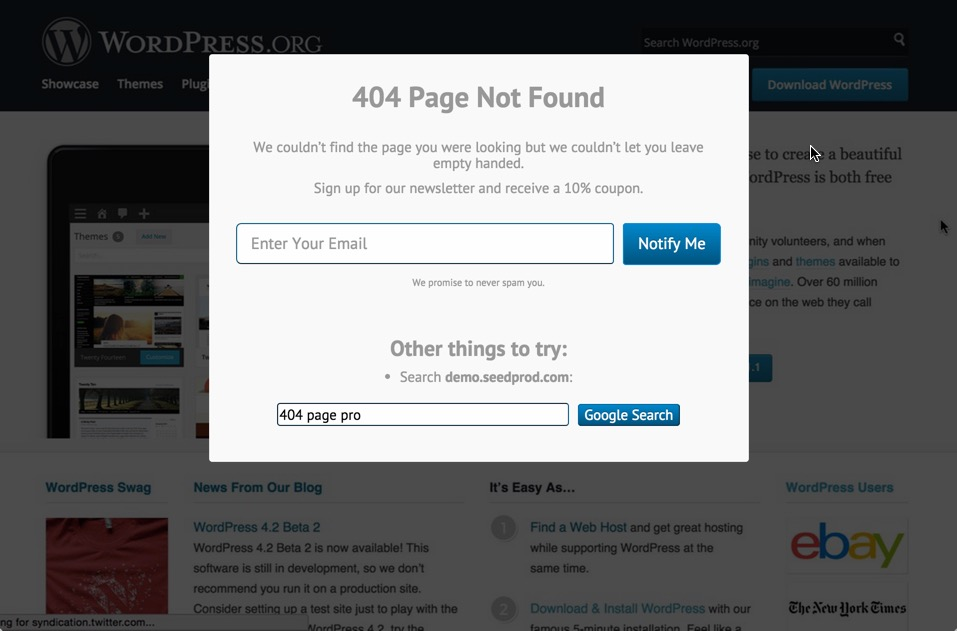
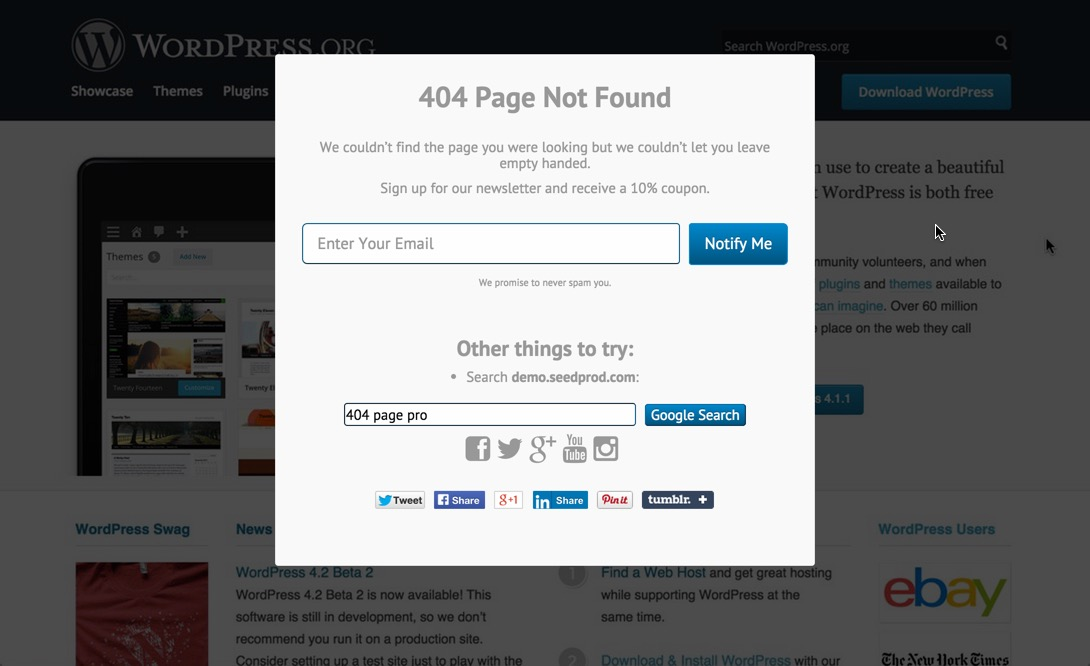
u

Changed region(s): [[0.0, 0.0301, 1.0, 1.0], [0.5455, 0.7528, 0.9394, 1.0], [0.3636, 0.1204, 0.6364, 0.1807]]

diff --git a/style.less b/style.less
@@ -237,6 +237,119 @@ h1,h2,h3,h4,h5,h6{
     padding-top:10px;
 }
 
+.product-404-page-pro{
+    #seed-feature-1:before{
+        content: '';
+        position: absolute;
+        top: 0;
+        height: 1px;
+        border-top: 1px #ddd solid;
+        width: 300px;
+    }
+
+    #seed-feature-1{
+        position: absolute;
+        top: 68px;
+        left: 20px;
+        width: 180px;
+        text-align: left;
+        padding-top:10px;
+    }
+
+    #seed-feature-2:before{
+        content: '';
+        position: absolute;
+        top: 0;
+        right: 0;
+        height: 1px;
+        border-top: 1px #ddd solid;
+        width: 325px;
+    }
+
+    #seed-feature-2{
+        position: absolute;
+        top: 272px;
+        right: 20px;
+        width: 180px;
+        text-align: right;
+        padding-top:10px;
+    }
+
+    #seed-feature-3:before{
+        content: '';
+        position: absolute;
+        top: 0;
+        height: 1px;
+        border-top: 1px #ddd solid;
+        width: 370px;
+    }
+
+    #seed-feature-3{
+        position: absolute;
+        top: 204px;
+        left: 20px;
+        width: 180px;
+        text-align: left;
+        padding-top:10px;
+    }
+
+    #seed-feature-4:before{
+        content: '';
+        position: absolute;
+        top: 0;
+        height: 1px;
+        border-top: 1px #ddd solid;
+        width: 350px;
+    }
+
+    #seed-feature-4{
+        position: absolute;
+        top: 298px;
+        left: 20px;
+        width: 180px;
+        text-align: left;
+        padding-top:10px;
+    }
+
+    #seed-feature-5:before{
+        content: '';
+        position: absolute;
+        top: 0;
+        right: 0;
+        height: 1px;
+        border-top: 1px #ddd solid;
+        width: 320px;
+    }
+
+    #seed-feature-5{
+        position: absolute;
+        top: 90px;
+        right: 20px;
+        width: 180px;
+        text-align: right;
+        padding-top:10px;
+    }
+
+    #seed-feature-6:before{
+        content: '';
+        position: absolute;
+        top: 0;
+        right: 0;
+        height: 1px;
+        border-top: 1px #ddd solid;
+        width: 320px;
+    }
+
+    #seed-feature-6{
+        position: absolute;
+        top: 175px;
+        right: 20px;
+        width: 180px;
+        text-align: right;
+        padding-top:10px;
+    }
+}
+
 #seed-trust{
     position: relative;
     top: -151px;

diff --git a/css/style.css b/css/style.css
@@ -47,6 +47,10 @@ h6 {
   font-weight: bold;
   font-family: "freight-sans-pro-1", "freight-sans-pro-2", "Helvetica Neue", Helvetica, Arial, sans-serif;
 }
+.product-404-page-pro p a,
+.product-404-page-pro p a:hover {
+  color: #08c;
+}
 .uk-text-small {
   font-size: 14px;
   line-height: 16px;
@@ -190,6 +194,105 @@ h6 {
   width: 320px;
 }
 #seed-feature-6 {
+  position: absolute;
+  top: 175px;
+  right: 20px;
+  width: 180px;
+  text-align: right;
+  padding-top: 10px;
+}
+.product-404-page-pro #seed-feature-1:before {
+  content: '';
+  position: absolute;
+  top: 0;
+  height: 1px;
+  border-top: 1px #ddd solid;
+  width: 300px;
+}
+.product-404-page-pro #seed-feature-1 {
+  position: absolute;
+  top: 68px;
+  left: 20px;
+  width: 180px;
+  text-align: left;
+  padding-top: 10px;
+}
+.product-404-page-pro #seed-feature-2:before {
+  content: '';
+  position: absolute;
+  top: 0;
+  right: 0;
+  height: 1px;
+  border-top: 1px #ddd solid;
+  width: 325px;
+}
+.product-404-page-pro #seed-feature-2 {
+  position: absolute;
+  top: 272px;
+  right: 20px;
+  width: 180px;
+  text-align: right;
+  padding-top: 10px;
+}
+.product-404-page-pro #seed-feature-3:before {
+  content: '';
+  position: absolute;
+  top: 0;
+  height: 1px;
+  border-top: 1px #ddd solid;
+  width: 370px;
+}
+.product-404-page-pro #seed-feature-3 {
+  position: absolute;
+  top: 204px;
+  left: 20px;
+  width: 180px;
+  text-align: left;
+  padding-top: 10px;
+}
+.product-404-page-pro #seed-feature-4:before {
+  content: '';
+  position: absolute;
+  top: 0;
+  height: 1px;
+  border-top: 1px #ddd solid;
+  width: 350px;
+}
+.product-404-page-pro #seed-feature-4 {
+  position: absolute;
+  top: 298px;
+  left: 20px;
+  width: 180px;
+  text-align: left;
+  padding-top: 10px;
+}
+.product-404-page-pro #seed-feature-5:before {
+  content: '';
+  position: absolute;
+  top: 0;
+  right: 0;
+  height: 1px;
+  border-top: 1px #ddd solid;
+  width: 320px;
+}
+.product-404-page-pro #seed-feature-5 {
+  position: absolute;
+  top: 90px;
+  right: 20px;
+  width: 180px;
+  text-align: right;
+  padding-top: 10px;
+}
+.product-404-page-pro #seed-feature-6:before {
+  content: '';
+  position: absolute;
+  top: 0;
+  right: 0;
+  height: 1px;
+  border-top: 1px #ddd solid;
+  width: 320px;
+}
+.product-404-page-pro #seed-feature-6 {
   position: absolute;
   top: 175px;
   right: 20px;

diff --git a/style.css b/style.css
@@ -201,6 +201,105 @@ h6 {
   text-align: right;
   padding-top: 10px;
 }
+.product-404-page-pro #seed-feature-1:before {
+  content: '';
+  position: absolute;
+  top: 0;
+  height: 1px;
+  border-top: 1px #ddd solid;
+  width: 300px;
+}
+.product-404-page-pro #seed-feature-1 {
+  position: absolute;
+  top: 68px;
+  left: 20px;
+  width: 180px;
+  text-align: left;
+  padding-top: 10px;
+}
+.product-404-page-pro #seed-feature-2:before {
+  content: '';
+  position: absolute;
+  top: 0;
+  right: 0;
+  height: 1px;
+  border-top: 1px #ddd solid;
+  width: 325px;
+}
+.product-404-page-pro #seed-feature-2 {
+  position: absolute;
+  top: 272px;
+  right: 20px;
+  width: 180px;
+  text-align: right;
+  padding-top: 10px;
+}
+.product-404-page-pro #seed-feature-3:before {
+  content: '';
+  position: absolute;
+  top: 0;
+  height: 1px;
+  border-top: 1px #ddd solid;
+  width: 370px;
+}
+.product-404-page-pro #seed-feature-3 {
+  position: absolute;
+  top: 204px;
+  left: 20px;
+  width: 180px;
+  text-align: left;
+  padding-top: 10px;
+}
+.product-404-page-pro #seed-feature-4:before {
+  content: '';
+  position: absolute;
+  top: 0;
+  height: 1px;
+  border-top: 1px #ddd solid;
+  width: 350px;
+}
+.product-404-page-pro #seed-feature-4 {
+  position: absolute;
+  top: 298px;
+  left: 20px;
+  width: 180px;
+  text-align: left;
+  padding-top: 10px;
+}
+.product-404-page-pro #seed-feature-5:before {
+  content: '';
+  position: absolute;
+  top: 0;
+  right: 0;
+  height: 1px;
+  border-top: 1px #ddd solid;
+  width: 320px;
+}
+.product-404-page-pro #seed-feature-5 {
+  position: absolute;
+  top: 90px;
+  right: 20px;
+  width: 180px;
+  text-align: right;
+  padding-top: 10px;
+}
+.product-404-page-pro #seed-feature-6:before {
+  content: '';
+  position: absolute;
+  top: 0;
+  right: 0;
+  height: 1px;
+  border-top: 1px #ddd solid;
+  width: 320px;
+}
+.product-404-page-pro #seed-feature-6 {
+  position: absolute;
+  top: 175px;
+  right: 20px;
+  width: 180px;
+  text-align: right;
+  padding-top: 10px;
+}
 #seed-trust {
   position: relative;
   top: -151px;

diff --git a/_includes/404-page-pro.html b/_includes/404-page-pro.html
@@ -9,7 +9,7 @@
 		<p class="uk-text-large uk-text-muted uk-margin-small-bottom">Allows you to collect leads and create intriguing designs on your 404 pages.<p>
 		<div id="seed-featured-container">
 			<a href="/features/">
-				<img src="/images/404.jpg" class="img-responsive uk-align-center uk-margin-small-bottom">
+				<img src="/images/featured-404.png" class="img-responsive uk-align-center uk-margin-small-bottom">
 			</a>
 			<div id="seed-feature-1" class="uk-hidden-small uk-text-small uk-animation-fade" style="-webkit-animation-delay: 0.1s;">
 				<p>
